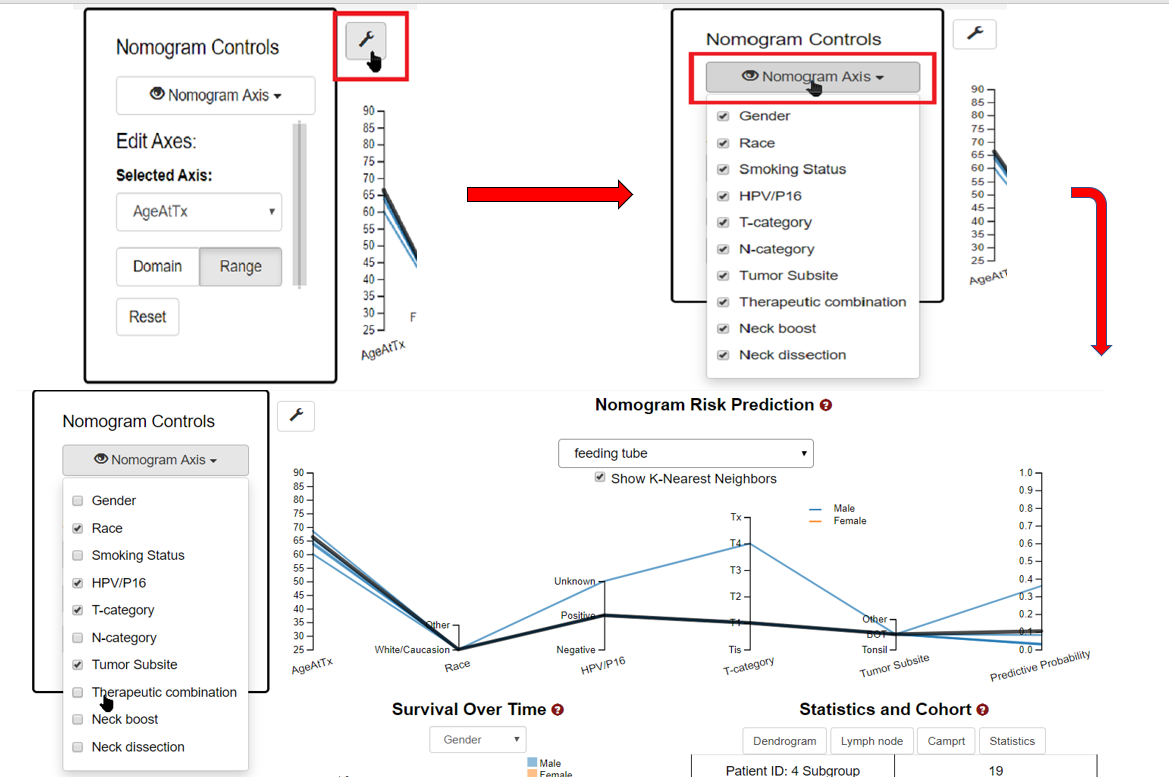
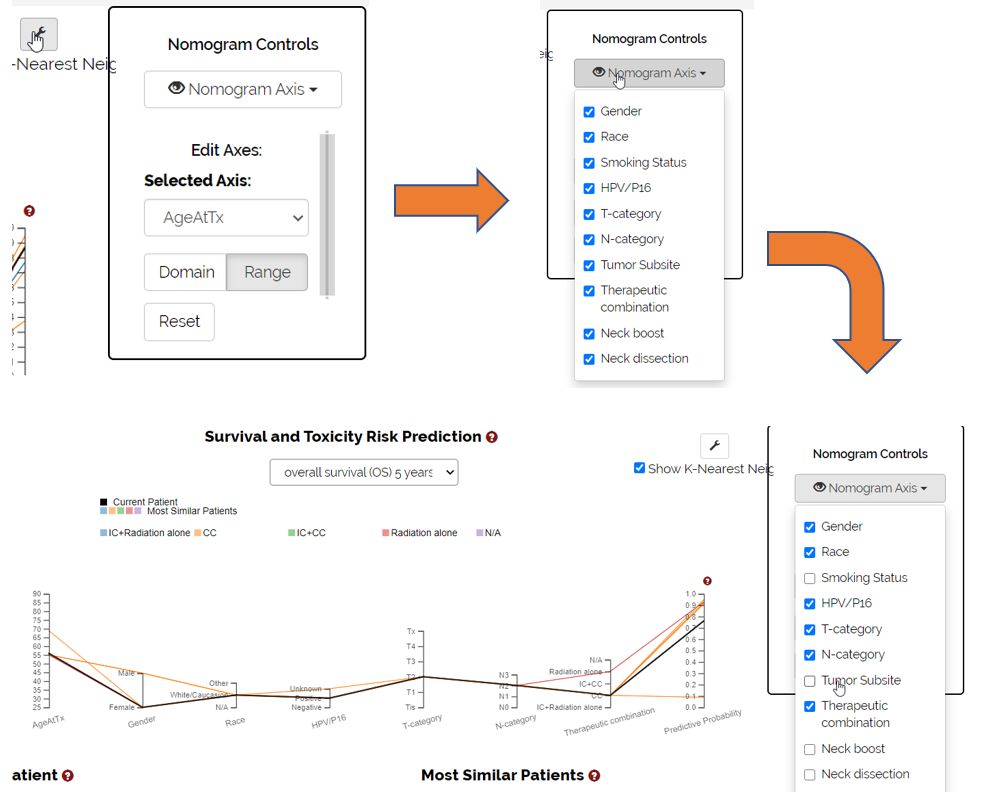
help panels updated, nomogram controller axis fixed

diff --git a/index.html b/index.html
@@ -788,7 +788,7 @@
     <div class="modal-dialog" role="document">
       <div class="modal-content">
         <div class="modal-header">
-          <h5 class="modal-title" id="exampleModalLabel">Nomogram Risk Prediction</h5>
+          <h3 class="modal-title" id="exampleModalLabel">Survival and Toxicity Risk Prediction</h3>
           <button type="button" class="close" data-dismiss="modal" aria-label="Close">
             <span aria-hidden="true">&times;</span>
           </button>
@@ -804,11 +804,14 @@
                     <br><br>
                 </li>
                 <li>Use the controller setting to resize and reposition each axis <br><br>
-                    <img src="imgs/nomogram/resize 3.PNG" style="width: 100%; display: block; margin-left: auto; margin-right: auto;">
+                    <img src="imgs/nomogram/resize.PNG" style="width: 100%; display: block; margin-left: auto; margin-right: auto;">
                     <br><br>
                 </li>
                 <li>In the view, the thick dark polyline corresonds to the patient that the user selected.<br>
-                    The remaining polylines correspond to the five most similar patients</li>
+                    The remaining polylines correspond to the five most similar patients.</li>
+                <li>Mouse over a poly line to view that poly line only</li>
+                <li>Uncheck "Show K-Nearest Neighbors" to see all of the patients information</li>
+                <li>Click on the question mark (?) over "Predictive Probability" to view "Attributes Used in Predicting The Outcomes"</li>
               </ul>
         </div>
         <div class="modal-footer">
@@ -824,14 +827,27 @@
     <div class="modal-dialog" role="document">
       <div class="modal-content">
         <div class="modal-header">
-          <h5 class="modal-title" id="exampleModalLabel">Survival Over Time</h5>
+          <h3 class="modal-title" id="exampleModalLabel">Survival Over Time</h3>
           <button type="button" class="close" data-dismiss="modal" aria-label="Close">
             <span aria-hidden="true">&times;</span>
           </button>
         </div>
         <div class="modal-body">
-            Survival Over Time view showing survival over time per patient group,
-            depending on the selected attribute
+          <ul>
+            <li>Survival Over Time view showing survival over time per patient group,
+              depending on the selected attribute</li>
+            <li>From the dropdown, attributes can be selected <br><br>
+              <img src="imgs/kaplan/dropdown.jpg" style="width: 100%; display: block; margin-left: auto; margin-right: auto;">
+            </li>
+            <li>User can select to view all values or any particular value from the dropdown</li>
+            <li>By default, selected patient's (from patient ID dropdown) cohort color is more opaqued than the other cohorts</li>
+            <li>Mouse Over to the legends to view the cohort <br><br>
+              <img src="imgs/kaplan/legend.png" style="width: 100%; display: block; margin-left: auto; margin-right: auto;">
+             </li>
+             <li>Mouse Over the view to see details <br><br>
+              <img src="imgs/kaplan/mouseover.png" style="width: 100%; display: block; margin-left: auto; margin-right: auto;">
+             </li>
+          </ul> 
         </div>
         <div class="modal-footer">
           <button type="button" class="btn btn-secondary" data-dismiss="modal">Close</button>

diff --git a/src/js/controller/nomogramAxisController.js b/src/js/controller/nomogramAxisController.js
@@ -33,7 +33,7 @@ let NomogramAxisController = function(listID) {
     init();
 
     function init() {
-        let attributes = App.patientKnnAttributes;
+        let attributes = App.nomogramAttributes;
         self.axes = App.models.axesModel.getAxesData();
 
         for (let attribute of attributes) {
@@ -45,7 +45,7 @@ let NomogramAxisController = function(listID) {
     }
 
     function attachToList(listID) {
-        let attributes = App.patientKnnAttributes;
+        let attributes = App.nomogramAttributes;
 
         self.list = d3.select(listID);
 
@@ -111,7 +111,7 @@ let NomogramAxisController = function(listID) {
         self.selectedAxis = d3.select(this).node().value;
         // console.log(self.selectedAxis);
         // disable the domain button when the non-age or non-prob axis is selected
-        console.log(self.toggleButtons);
+        // console.log(self.toggleButtons);
         if (self.selectedAxis !== "AgeAtTx" && self.selectedAxis !== "Predictive Probability") {
             self.toggleButtons
                 .attr("disabled", true);
@@ -156,6 +156,7 @@ let NomogramAxisController = function(listID) {
     }
 
     function updateNomogramAxisVisibility() {
+        // console.log(self.checkboxStates)
         App.views.nomogram.updateAxisVisibility(self.checkboxStates);
     }
 
@@ -276,7 +277,7 @@ let NomogramAxisController = function(listID) {
         if (self.editMode === "range") {
             // update the axis range
             self.attributeRange[self.selectedAxis] = d3.event.selection.map(self.rangeScale.invert);
-            if (self.selectedAxis === "Probability of Survival") {
+            if (self.selectedAxis === "Predictive Probability" || self.selectedAxis === "AgeAtTx") {
                 self.attributeRange[self.selectedAxis] = self.attributeRange[self.selectedAxis].reverse();
             }
 
@@ -285,7 +286,7 @@ let NomogramAxisController = function(listID) {
         } else if (self.editMode === "domain") {
             // update the axis domain
             self.attributeDomain[self.selectedAxis] = d3.event.selection.map(self.domainScale[self.selectedAxis].invert);
-            if (self.selectedAxis === "Probability of Survival") {
+            if (self.selectedAxis === "Predictive Probability" || self.selectedAxis === "AgeAtTx") {
               self.attributeDomain[self.selectedAxis] = self.attributeDomain[self.selectedAxis].reverse();
             }
 

diff --git a/src/js/view/nomogramView.js b/src/js/view/nomogramView.js
@@ -61,7 +61,7 @@ let NomogramView = function (targetID) {
         // console.log(self.axes)
 
         self.filteredAxes = Object.keys(axes);
-        // console.log(self.filteredAxes);
+        // console.log("first time filtered axes", self.filteredAxes);
 
         let menuDiv = d3.select(self.targetID + "Header")
             .select(".viewTitleDiv").append("div")
@@ -95,6 +95,7 @@ let NomogramView = function (targetID) {
         self.axes = App.models.axesModel.getAxesData();
         // console.log(self.axes);
         self.filteredAxes = Object.keys(self.axes);
+        // console.log(self.filteredAxes)
 
         updateAxes();
         updateView();
@@ -294,13 +295,15 @@ let NomogramView = function (targetID) {
         // update self.filteredAxes
         self.filteredAxes = [];
         self.filteredAxes.push(Object.keys(self.axes)[0]);
+        // console.log(self.filteredAxes)
         Object.keys(self.axes).forEach((el) => {
             if (axisStates[el]) {
                 self.filteredAxes.push(el);
             }
         });
-        self.filteredAxes.push(Object.keys(self.axes)[App.patientKnnAttributes.length + 1]);
-
+        // console.log(self.filteredAxes)
+        self.filteredAxes.push(Object.keys(self.axes)[App.nomogramAttributes.length + 1]);
+        // console.log(self.filteredAxes)
         // then updateAxes
         updateAxes();
         updateView();

diff --git a/src/js/model/axesModel.js b/src/js/model/axesModel.js
@@ -58,6 +58,8 @@ let AxesModel = function() {
                         App.kiviatAttributes.push(d);
                     if (defaultAxes[d].forKnn)
                         App.patientKnnAttributes.push(d);
+                    if(defaultAxes[d].forNomogram)
+                        App.nomogramAttributes.push(d);
                         // console.log(App.patientKnnAttributes, 'knn')
                 });
 

diff --git a/src/js/main.js b/src/js/main.js
@@ -14,6 +14,7 @@ less.pageLoadFinished.then(function() {
     // Initialize attribute variables
     App.patientKnnAttributes = [];
     App.kiviatAttributes = [];
+    App.nomogramAttributes = [];
 
     // hard code the order of attributes for drawing the mosaic viewBox
     App.mosaicAttributeOrder = ["Therapeutic combination", /*"Race",*/ "T-category", /*"Gender",*/ 

diff --git a/src/js/view/kaplanMeierView.js b/src/js/view/kaplanMeierView.js
@@ -133,6 +133,7 @@ let KaplanMeierView = function(targetID) {
                 .attr("x", 85)
                 .attr("y", 4 + attrValNum * 5)
                 .style("font-size", "0.3em")
+                .style("cursor", "default")
                 // .style("cursor", "context-menu")
                 .text(attrVal)
                 /*
